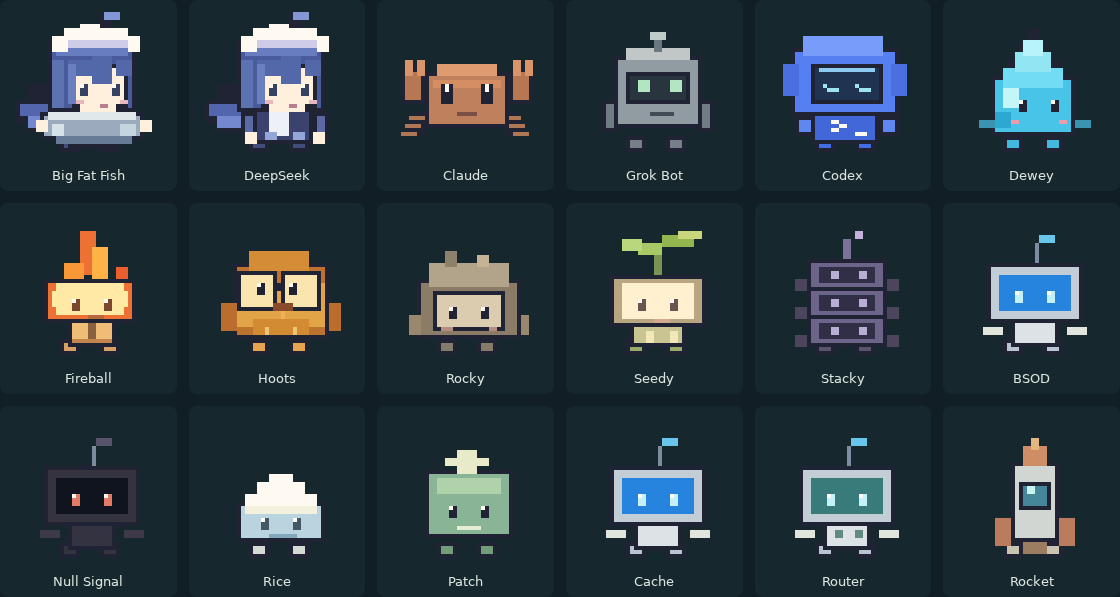
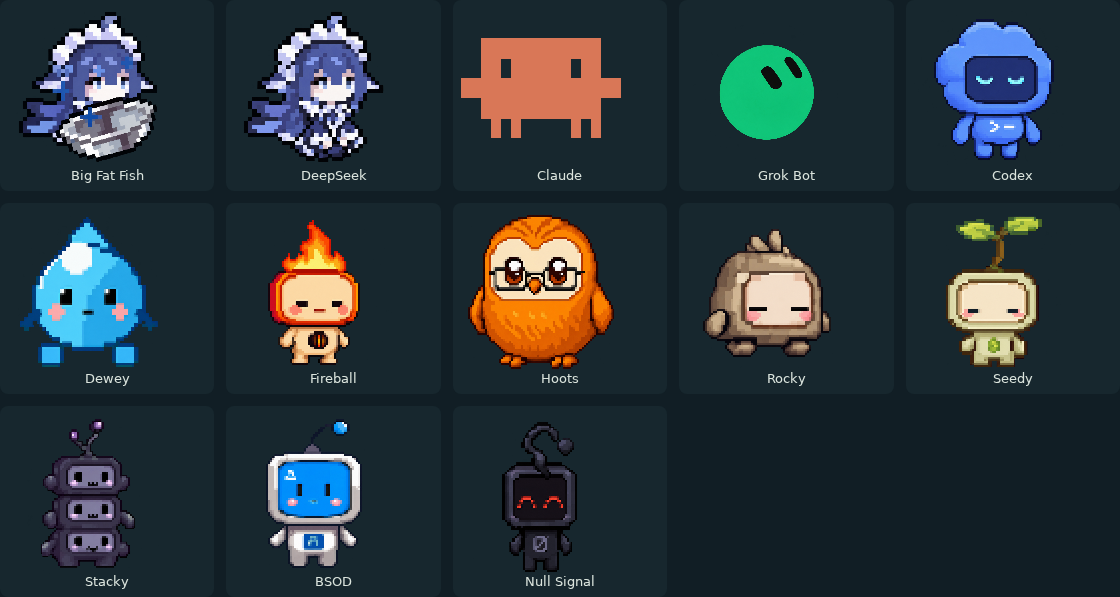
fix(v2): restore approved faithful character replicas without simplified redraws

diff --git a/src/v2/preview/characters.js b/src/v2/preview/characters.js
@@ -1,85 +1,49 @@
 // @ts-check
-// Hand-authored integer-grid rigs. Reference screenshots are never loaded.
-/** @typedef {{x:number;y:number;w:number;h:number;color:string}} PixelRect */
+// Use the previously reviewed generated art unchanged. No substitute redraws.
 /** @typedef {{tick?:number;moving?:boolean;attacking?:boolean;controlled?:boolean;hurt?:boolean;facing?:number;stage?:number}} Pose */
-export const CHARACTER_NAMES=Object.freeze(['fish','deepseek','claude','grok','codex','dewey','fireball','hoots','rocky','seedy','stacky','bsod','null-signal','rice','patch','cache','router','rocket']);
-const ink='#202333',cream='#fff0de',white='#fffaf1';
-/** Build detached pixel geometry on a 40 × 40 grid. Pose is presentation only.
+export const CHARACTER_NAMES=Object.freeze(['fish','deepseek','claude','grok','codex','dewey','fireball','hoots','rocky','seedy','stacky','bsod','null-signal']);
+/** @type {Map<string,{image:HTMLImageElement;ready:boolean;promise:Promise<HTMLImageElement>}>} */
+const images=new Map();
+/** Resolve a reviewed source image without changing its pixels.
  * @calls 无内部公开函数。
- * @param {string} name @param {Pose} [pose] @returns {PixelRect[]}
+ * @param {string} name @returns {string|null}
  */
-export function createCharacterPixels(name,pose={}){
- if(!CHARACTER_NAMES.includes(name))name='cache';
- /** @type {PixelRect[]} */const out=[];
- const tick=pose.tick??0,step=pose.moving&&!pose.controlled?Math.floor(tick/7)%4:0,stride=step===1?1:step===3?-1:0;
- const bob=pose.controlled?0:pose.moving?Math.abs(stride):Math.floor(tick/40)%2,blink=pose.controlled||tick%210>201,attack=pose.attacking&&!pose.controlled&&tick%12<8?2:0;
- /** @param {number} x @param {number} y @param {number} w @param {number} h @param {string} color */
- const r=(x,y,w,h,color)=>out.push({x,y:y-bob,w,h,color:pose.hurt&&color!==ink?white:color});
- /** @param {number} x @param {number} y @param {number} w @param {number} h @param {string} color */
- const box=(x,y,w,h,color)=>{r(x,y,w,h,ink);r(x+1,y+1,w-2,h-2,color);};
- /** @param {number} x @param {number} y @param {string} [color] */
- const eyes=(x,y,color=ink)=>{r(x,y,2,blink?1:3,color);r(x+8,y,2,blink?1:3,color);if(!blink){r(x,y,1,1,white);r(x+8,y,1,1,white);}};
- /** @param {string} color */
- const feet=color=>{box(13,32+stride,5,4,color);box(23,32-stride,5,4,color);};
- if(name==='fish'||name==='deepseek'){
-  feet('#424d7d');box(12,24,17,10,'#3a426d');r(18,25,5,7,'#eef0f7');r(5,19,7,12,ink);r(2,23,9,6,ink);r(3,24,9,3,'#5365ac');r(5,27,8,3,'#7488cf');
-  box(10,8,22,18,'#495b9c');r(12,8,18,4,'#677dc0');r(11,13,3,12,'#5c72b1');box(16,14,14,11,cream);r(18,24,9,2,cream);r(15,13,7,4,'#5368a9');r(21,12,5,7,'#5368a9');r(27,13,4,4,'#5368a9');r(15,14,2,10,'#697fc0');eyes(18,19,'#354363');r(17,23,2,1,'#e8b6bd');r(28,23,2,1,'#e8b6bd');r(23,24,2,1,'#b97f91');
-  r(11,7,4,4,white);r(14,5,4,5,white);r(18,4,4,5,white);r(22,4,4,5,white);r(26,5,4,5,white);r(30,7,3,4,white);r(15,8,15,2,'#cecce9');r(23,1,3,4,ink);r(24,1,4,2,'#8297d6');
-  if(name==='fish'){
-   box(8+attack,26-attack,26,7,'#9babbd');r(10+attack,26-attack,22,2,'#e1e8eb');r(12+attack,32-attack,19,2,'#687b96');r(15+attack,34-attack,13,1,ink);r(11+attack,29-attack,3,3,'#d5e2e8');r(28+attack,29-attack,4,3,'#c5d4df');r(7+attack,28-attack,3,3,cream);r(33+attack,28-attack,3,3,cream);
-  }else{
-   // DeepSeek intentionally has no basin, plus signs or replacement prop.
-   box(11,26-stride,4,7,'#5b6aa4');r(12,31-stride,3,3,cream);box(29,26+stride-attack,4,7,'#5b6aa4');r(29,31+stride-attack,3,3,cream);r(17,31,3,2,'#94a6d8');r(24,31,3,2,'#94a6d8');
-  }
- }else if(name==='claude'){
-  for(const side of [-1,1]){const cx=side<0?4:31;for(let i=0;i<3;i++){r(side<0?7-i:28+i,26+i*2+stride*side,5,2,ink);r(side<0?6-i:30+i,27+i*2+stride*side,4,1,'#ae7756');}box(cx,15-attack,6,9,'#b87753');r(cx+1,13-attack,2,4,'#d99569');r(cx+4,13-attack,2,4,'#d99569');}
-  box(10,16,21,14,'#bf805d');r(13,14,15,3,'#df9b70');r(12,18,17,2,'#d58d64');r(14,19,3,5,ink);r(24,19,3,5,ink);r(15,19,1,2,white);r(25,19,1,2,white);r(18,26,5,1,'#7c4f43');
-  if((pose.stage??0)>0){r(12,15,17,3,'#946249');r(15,14,11,2,'#edb78b');r(11,19,2,7,'#875d4a');r(29,19,2,7,'#875d4a');}
- }else if(name==='grok'){
-  feet('#777f88');box(10,12,22,18,'#919ba2');r(13,10,16,3,'#c0c7c6');box(13,16,16,8,'#28343e');r(16,18,3,3,'#b3e5c2');r(24,18,3,3,'#b3e5c2');r(19,26,6,1,'#414c57');r(20,7,2,4,'#6b7881');r(19,6,4,2,'#becbc8');box(7,23-stride,4,8,'#717d85');box(31,23+stride-attack,4,8,'#717d85');
-  if(pose.stage===4){box(32,8,5,22,'#b2b6bc');r(33,6,3,3,'#d79469');r(33,31,3,4,'#e7b66c');}
- }else if(name==='codex'){
-  feet('#416ee4');box(12,25,17,9,'#4267d9');r(17,28,2,1,white);r(19,29,2,1,white);r(17,30,2,1,white);r(23,31,3,1,white);box(7,10,27,17,'#567ff1');r(10,7,20,5,'#789cf9');r(5,14,4,8,'#4b6fe0');r(32,14,4,8,'#4b6fe0');box(12,14,18,10,'#203351');r(14,15,14,1,'#8fcaf2');r(16,20,3,1,'#9ee4f0');r(24,20,3,1,'#9ee4f0');r(15,19,1,1,'#9ee4f0');r(23,19,1,1,'#9ee4f0');box(8,27-stride,5,5,'#6086ef');box(29,27+stride-attack,5,5,'#6086ef');
- }else if(name==='dewey'){
-  feet('#42b9df');r(19,5,3,4,ink);r(17,9,7,4,ink);r(14,13,13,4,ink);box(10,17,21,15,'#49c4e9');r(13,15,15,5,'#71dcf4');r(16,11,9,5,'#92e5f3');r(18,8,5,4,'#b8f3f9');r(13,20,4,5,'#c4f6f7');r(11,26,4,4,'#2ca8d2');eyes(17,23);r(15,28,2,1,'#ed9cae');r(27,28,2,1,'#ed9cae');r(7,28-stride,4,2,'#3a93af');r(31,28+stride,4,2,'#3a93af');
- }else if(name==='fireball'){
-  feet('#d7a166');box(15,26,12,8,'#f0bd77');r(20,28,2,4,'#88623d');r(16,32,10,1,'#c2854d');r(18,5-attack,4,11,'#ed7132');r(21,9-attack,4,8,'#ffb347');r(14,13,5,6,'#fa9838');r(27,14,3,6,'#eb5e2e');box(9,17,23,11,'#ed7132');r(12,18,17,8,'#ffe9a5');r(11,20,19,4,'#ffe9a5');eyes(16,22,'#78472e');r(20,26,4,1,'#b9673c');
- }else if(name==='hoots'){
-  feet('#e6a54c');box(9,13,24,19,'#be722f');r(13,10,15,5,'#d58c36');r(10,18,22,11,'#e1a447');r(14,27,14,4,'#d38b33');box(10,15,10,10,'#fbe5ae');box(21,15,10,10,'#fbe5ae');r(20,18,1,2,ink);eyes(15,18);r(19,23,5,2,'#8a4b2d');r(21,25,1,2,'#f0b058');r(6,23-stride,4,7,'#ba6d2d');r(33,23+stride-attack,3,7,'#ba6d2d');r(17,29,1,2,'#f0c477');r(24,29,1,2,'#f0c477');
- }else if(name==='rocky'){
-  feet('#857969');box(8,17,26,15,'#8a7c66');r(11,13,20,6,'#b2a48a');r(15,10,3,4,'#8c826c');r(23,11,3,3,'#c6b394');box(12,20,18,10,'#dbccb0');eyes(16,24);r(14,29,3,1,'#b78d81');r(26,29,2,1,'#b78d81');r(6,26-stride,3,5,'#9a886e');r(34,26+stride-attack,2,5,'#9a886e');
- }else if(name==='seedy'){
-  feet('#9caa67');box(14,27,14,7,'#c9c593');box(9,16,24,13,'#b7a67f');r(12,18,18,9,'#fff0cf');eyes(16,22,'#68554d');r(20,27,4,1,'#d4aa94');r(20,9,2,7,'#7b9456');r(16,8-stride,6,3,'#a9c967');r(12,7-stride,5,3,'#b9d77b');r(22,6+stride,8,3,'#94b64e');r(26,5+stride,6,2,'#c9d67c');r(18,30,2,3,'#f2e7b8');r(24,30,2,3,'#f2e7b8');
- }else if(name==='stacky'){
-  feet('#5a536e');for(let i=0;i<3;i++){const shift=i===0?stride:0;box(11+shift,12+i*7,20,8,'#6d648a');r(14+shift,14+i*7,14,4,'#302f45');r(17+shift,15+i*7,2,2,'#b9aed6');r(24+shift,15+i*7,2,2,'#b9aed6');r(8,17+i*7,3,3,'#4c455e');r(31,17+i*7,3,3,'#4c455e');}r(20,7,2,5,'#7c719b');r(23,5,2,2,'#c6b1dc');
- }else if(['bsod','null-signal','cache','router'].includes(name)){
-  const dark=name==='null-signal',green=name==='router';feet(dark?'#35333e':'#b8c4d1');box(15,27,12,7,dark?'#343342':'#dce2e6');box(9,13,24,15,dark?'#35333e':'#c2cdd5');r(12,16,18,9,dark?'#10141e':green?'#397b7b':'#2784de');eyes(16,20,dark?'#e47b67':'#c3f0f9');r(21,8,1,5,'#7f8b9f');r(22,6,4,2,dark?'#57536c':'#67c6e9');r(8,29-stride,5,2,dark?'#3e3a49':'#e1e5dc');r(29,29+stride-attack,5,2,dark?'#3e3a49':'#e1e5dc');if(green){r(18,29,2,2,'#608a82');r(23,29,2,2,'#608a82');}
- }else if(name==='rice'){
-  feet('#d5dbd3');box(10,22,22,10,'#bad4df');r(12,20,18,4,white);r(15,17,12,4,white);r(18,15,6,3,white);r(12,23,18,2,'#f3f0dd');eyes(16,26,'#445767');r(18,30,7,1,'#82a8bb');
- }else if(name==='patch'){
-  feet('#719b79');box(10,14,22,17,'#8ab496');r(13,16,16,4,'#b0d2ab');eyes(16,23);r(18,28,6,1,'#e4eed1');r(18,9,5,6,'#e9eac9');r(15,11,11,2,'#e9eac9');
- }else if(name==='rocket'){
-  feet('#c9c3b2');box(15,12,12,20,'#d1d6d3');r(18,8,6,5,'#cf8d65');r(20,6,2,3,'#e2b77e');box(17,17,8,7,'#46869a');r(19,18,2,2,'#c7f4ee');r(11,26-stride,4,7,'#ba7c5c');r(27,26+stride,4,7,'#ba7c5c');r(18,32,6,3,attack?'#f5c15c':'#9d7d61');
- }
- if(['codex','dewey','fireball','hoots','rocky','seedy','stacky'].includes(name))for(let n=0;n<Math.min(4,pose.stage??0);n++)r(9+n*3,34,2,1,'#ead3a1');
- return out;
+export function characterSource(name){
+ return CHARACTER_NAMES.includes(name)?`./art/characters/${name}.${name==='claude'?'svg':'png'}`:null;
 }
-/** Draw an integer-scaled rig, mirrored toward its actual facing.
- * @calls preview/characters.js#createCharacterPixels
+/** Load each approved full-resolution image once. No re-encoding or traced shapes.
+ * @calls preview/characters.js#characterSource
+ * @param {string} name @returns {Promise<HTMLImageElement>}
+ */
+export function loadCharacterArt(name){
+ const existing=images.get(name);if(existing)return existing.promise;
+ const source=characterSource(name);if(!source)return Promise.reject(new Error(`No approved character art: ${name}`));
+ const image=new Image();let resolveImage=/** @type {(image:HTMLImageElement)=>void} */(()=>{}),rejectImage=/** @type {(error:Error)=>void} */(()=>{});
+ const promise=new Promise((resolve,reject)=>{resolveImage=resolve;rejectImage=reject;});
+ const entry={image,ready:false,promise};images.set(name,entry);
+ image.onload=()=>{entry.ready=true;resolveImage(image);};image.onerror=()=>rejectImage(new Error(`Character art unavailable: ${name}`));image.src=source;return promise;
+}
+/** Draw the reviewed artwork with its aspect ratio and details intact. Movement
+ * and recoil are whole-image offsets, not newly invented animation frames.
+ * No mirroring: that would reverse the Codex chest glyph and asymmetric details.
+ * @calls preview/characters.js#characterSource
+ * @calls preview/characters.js#loadCharacterArt
  * @param {CanvasRenderingContext2D} ctx @param {string} name @param {number} x @param {number} y @param {number} size @param {Pose} [pose]
+ * @returns {boolean}
  */
 export function drawCharacter(ctx,name,x,y,size,pose={}){
- const scale=Math.max(1,Math.round(size/40));ctx.save();ctx.translate(Math.round(x),Math.round(y));if(Math.cos(pose.facing??0)<-.15)ctx.scale(-1,1);
- for(const p of createCharacterPixels(name,pose)){ctx.fillStyle=p.color;ctx.fillRect((p.x-20)*scale,(p.y-20)*scale,p.w*scale,p.h*scale);}ctx.restore();
+ if(!characterSource(name))return false;
+ const entry=images.get(name);if(!entry){loadCharacterArt(name).catch(()=>{});return false;}if(!entry.ready)return false;
+ const image=entry.image;
+ // Approved Claude SVG has a 512-square artboard; only its crab occupies this box.
+ const crop=name==='claude'?{x:16,y:176,w:384,h:240}:{x:0,y:0,w:image.naturalWidth,h:image.naturalHeight};
+ const scale=size/Math.max(crop.w,crop.h),w=crop.w*scale,h=crop.h*scale,tick=pose.tick??0;
+ const bob=pose.controlled?0:pose.moving?Math.floor(tick/7)%2*2:0;
+ const recoil=pose.attacking&&!pose.controlled&&tick%12<4?2:0;
+ ctx.save();ctx.imageSmoothingEnabled=false;if(pose.hurt)ctx.globalAlpha*=.55;
+ ctx.drawImage(image,crop.x,crop.y,crop.w,crop.h,Math.round(x-w/2-Math.cos(pose.facing??0)*recoil),Math.round(y-h/2-bob),w,h);ctx.restore();return true;
 }
-/** Static export from exactly the same rig as combat.
- * @calls preview/characters.js#createCharacterPixels
- * @param {string} name @param {Pose} [pose] @returns {string}
- */
-export function characterSvg(name,pose={}){
- return `<svg xmlns="http://www.w3.org/2000/svg" viewBox="0 0 40 40" width="160" height="160" shape-rendering="crispEdges">${createCharacterPixels(name,pose).map(p=>`<rect x="${p.x}" y="${p.y}" width="${p.w}" height="${p.h}" fill="${p.color}"/>`).join('')}</svg>`;
-}
-/** Resolve combat actor IDs; DeepSeek is the existing decoy companion's skin.
+/** Bind existing gameplay roles to reviewed appearances; abilities do not change.
  * @calls 无内部公开函数。
  * @param {string} id @returns {string|null}
  */
@@ -89,5 +53,5 @@ export function resolveCharacterModel(id){
  if(['enemy_claude_guard','boss_claude'].includes(id))return 'claude';
  if(['enemy_grok_bot','boss_grok','distilled_bot'].includes(id))return 'grok';
  if(id==='boss_gpt')return 'codex';
- const companions=/** @type {Record<string,string>} */({companion_rice:'rice',companion_patch:'patch',companion_cache:'cache',companion_router:'router',companion_decoy:'deepseek',companion_rocket:'rocket'});return companions[id]??null;
+ return id==='companion_decoy'?'deepseek':null;
 }

diff --git a/src/v2-character-gallery.js b/src/v2-character-gallery.js
@@ -1,13 +1,13 @@
-import {CHARACTER_NAMES,drawCharacter} from './v2/preview/characters.js';
+import {CHARACTER_NAMES,drawCharacter,loadCharacterArt} from './v2/preview/characters.js';
 /** Inspect the same rigs as combat, without advancing the world. */
 export function mountCharacterGallery(){
  const root=document.querySelector('#character-gallery'),panel=document.querySelector('#characters-panel');if(!root||!panel)return;
  const labels={fish:'大肥鱼',deepseek:'DeepSeek',claude:'Claude',grok:'Grok Bot',codex:'Codex',dewey:'Dewey',fireball:'Fireball',hoots:'Hoots',rocky:'Rocky',seedy:'Seedy',stacky:'Stacky',bsod:'BSOD','null-signal':'Null Signal',rice:'饭团',patch:'补丁',cache:'小缓存',router:'路由员',rocket:'小火箭'};
- const controls=document.createElement('div');controls.className='model-controls';const label=document.createElement('label');label.textContent='查看动作 ';const select=document.createElement('select');select.id='model-pose';
- for(const [value,text] of [['idle','待机'],['move','移动'],['attack','攻击'],['control','受控'],['hurt','受击']]){const option=document.createElement('option');option.value=value;option.textContent=text;select.append(option);}label.append(select);controls.append(label);
- const turn=document.createElement('button');turn.type='button';turn.textContent='转向';turn.setAttribute('aria-pressed','false');let facing=0;turn.onclick=()=>{facing=facing?0:Math.PI;turn.setAttribute('aria-pressed',String(!!facing));};controls.append(turn);root.append(controls);
+ const controls=document.createElement('div');controls.className='model-controls';const label=document.createElement('label');label.textContent='展示效果 ';const select=document.createElement('select');select.id='model-pose';
+ for(const [value,text] of [['idle','原图'],['move','移动反馈'],['attack','攻击反馈'],['control','受控'],['hurt','受击']]){const option=document.createElement('option');option.value=value;option.textContent=text;select.append(option);}label.append(select);controls.append(label);
+ const facing=0;root.append(controls);
  const grid=document.createElement('div');grid.className='model-gallery';root.append(grid);const views=[];
- for(const name of CHARACTER_NAMES){const figure=document.createElement('figure'),canvas=document.createElement('canvas'),caption=document.createElement('figcaption');canvas.width=canvas.height=160;canvas.setAttribute('aria-label',`${labels[name]}像素模型`);canvas.dataset.model=name;caption.textContent=labels[name];figure.append(canvas,caption);grid.append(figure);views.push({name,canvas});}
+ for(const name of CHARACTER_NAMES){const figure=document.createElement('figure'),canvas=document.createElement('canvas'),caption=document.createElement('figcaption');canvas.width=canvas.height=160;canvas.setAttribute('aria-label',`${labels[name]}像素模型`);canvas.dataset.model=name;caption.textContent=labels[name];figure.append(canvas,caption);grid.append(figure);views.push({name,canvas});loadCharacterArt(name).catch(()=>{caption.textContent=`${labels[name]} · 加载失败`;});}
  let request=0,start=0;
  function frame(now){if(!panel.open||document.hidden){request=0;return;}if(!start)start=now;const tick=Math.floor((now-start)*.06);for(const {canvas,name} of views){const ctx=canvas.getContext('2d');ctx.clearRect(0,0,160,160);ctx.imageSmoothingEnabled=false;drawCharacter(ctx,name,80,80,160,{tick,moving:select.value==='move',attacking:select.value==='attack'&&tick%30<15,controlled:select.value==='control',hurt:select.value==='hurt'&&tick%30<5,facing});}request=requestAnimationFrame(frame);}
  const resume=()=>{if(panel.open&&!document.hidden&&!request)request=requestAnimationFrame(frame);};panel.addEventListener('toggle',resume);document.addEventListener('visibilitychange',resume);resume();

diff --git a/src/v2/preview/view.js b/src/v2/preview/view.js
@@ -65,7 +65,7 @@ export function renderPreviewFrame(ctx,view,width,height,pixelRatio,popups=[]) {
     const stage=/mythos|fable|luna/i.test(entity.modelLabel??'')?3:/opus|terra/i.test(entity.modelLabel??'')?2:/sonnet|sol/i.test(entity.modelLabel??'')?1:0;
     const pose={tick:view.tick,moving:entity.moving,attacking:entity.attacking||entity.telegraphRemaining>0,facing:entity.facingRadians,stage,hurt:popups.some(p=>Math.hypot(p.x-x,p.y-y)<entity.radius&&view.tick-p.tick>=0&&view.tick-p.tick<5),controlled:entity.statusLabels?.some(s=>['root','stun','companionBan'].includes(s))};
     if(entity.kind==='companion'){
-      const banned=entity.statusLabels.includes('companionBan');ctx.globalAlpha=banned?.35:1;drawCharacter(ctx,model??'cache',x,y,40,pose);ctx.globalAlpha=1;
+      const banned=entity.statusLabels.includes('companionBan');ctx.globalAlpha=banned?.35:1;if(!drawCharacter(ctx,model??'',x,y,40,pose)){ctx.fillStyle=entity.spriteId==='companion_rice'?'#eee8cf':entity.spriteId==='companion_patch'?'#a1d6a0':entity.spriteId==='companion_rocket'?'#e4a278':'#a8bde0';ctx.fillRect(x-10,y-9,20,18);ctx.fillStyle='#31505b';ctx.fillRect(x-6,y-4,3,4);ctx.fillRect(x+3,y-4,3,4);}ctx.globalAlpha=1;
       ctx.font='11px system-ui';ctx.textAlign='center';ctx.fillStyle='#d5e1d0';ctx.fillText(`${entity.modelLabel??'伙伴'}${model==='deepseek'?' · DeepSeek':''}`,x,y+27);if(banned){ctx.strokeStyle='#d8947d';ctx.strokeRect(x-17,y-17,34,34);}continue;
     }
     if(entity.spriteId.startsWith('enemy_gpt_')){

diff --git a/v2.html b/v2.html
@@ -11,7 +11,7 @@
       <div class="menu-layout">
         <div id="home-screen" class="home-screen">
           <div class="home-copy"><span class="home-kicker">BIG FAT FISH</span><h1>大肥鱼</h1><p>拎上铁盆，出门冒险。</p><button id="open-departure" class="primary home-start" type="button">开始冒险 <span aria-hidden="true">→</span></button></div>
-          <div class="home-art" aria-hidden="true"><img src="./art/models/fish.svg" alt=""></div>
+          <div class="home-art" aria-hidden="true"><img src="./art/characters/fish.png" alt=""></div>
         </div>
         <div id="departure-screen" class="departure-screen hidden">
           <div class="departure-heading"><span class="eyebrow">出发准备</span><h1>选择冒险</h1><p>选一条路线，再决定难度。</p></div>

diff --git a/docs/design-v2/12-function-catalog.md b/docs/design-v2/12-function-catalog.md
@@ -3189,23 +3189,23 @@ A bounded, explicit combat-only slice. Full adventure tick remains separate and 
 
 | 函数签名 | 返回 | 状态/范围 | 功能与约束 |
 |---|---|---|---|
-| `createCharacterPixels(name: untyped, pose: untyped = {})` | `PixelRect[]` | 已实现 | createCharacterPixels；；状态权限：只读输入、返回值/计划；不得写调用者状态 |
-| `drawCharacter(ctx: untyped, name: untyped, x: untyped, y: untyped, size: untyped, pose: untyped = {})` | `void` | 已实现 | drawCharacter；；状态权限：只读输入、返回值/计划；不得写调用者状态 |
-| `characterSvg(name: untyped, pose: untyped = {})` | `string` | 已实现 | characterSvg；；状态权限：只读输入、返回值/计划；不得写调用者状态 |
+| `characterSource(name: untyped)` | `string\|null` | 已实现 | characterSource；；状态权限：只读输入、返回值/计划；不得写调用者状态 |
+| `loadCharacterArt(name: untyped)` | `Promise<HTMLImageElement>` | 已实现 | loadCharacterArt；；状态权限：只读输入、返回值/计划；不得写调用者状态 |
+| `drawCharacter(ctx: untyped, name: untyped, x: untyped, y: untyped, size: untyped, pose: untyped = {})` | `boolean` | 已实现 | drawCharacter；；状态权限：只读输入、返回值/计划；不得写调用者状态 |
 | `resolveCharacterModel(id: untyped)` | `string\|null` | 已实现 | resolveCharacterModel；；状态权限：只读输入、返回值/计划；不得写调用者状态 |
 
 公开函数下游：
 
-- `createCharacterPixels` → 无内部公开函数。
-- `drawCharacter` → `preview/characters.js#createCharacterPixels`。
-- `characterSvg` → `preview/characters.js#createCharacterPixels`。
+- `characterSource` → 无内部公开函数。
+- `loadCharacterArt` → `preview/characters.js#characterSource`。
+- `drawCharacter` → `preview/characters.js#characterSource`、`preview/characters.js#loadCharacterArt`。
 - `resolveCharacterModel` → 无内部公开函数。
 
 公开函数上游：
 
-- `createCharacterPixels` ← `preview/characters.js#drawCharacter`、`preview/characters.js#characterSvg`。
+- `characterSource` ← `preview/characters.js#loadCharacterArt`、`preview/characters.js#drawCharacter`。
+- `loadCharacterArt` ← `preview/characters.js#drawCharacter`。
 - `drawCharacter` ← `preview/view.js#renderPreviewFrame`。
-- `characterSvg` ← 宿主/工具入口或待编排。
 - `resolveCharacterModel` ← `preview/view.js#renderPreviewFrame`。
 
 ## preview/host.js

diff --git a/docs/design-v2/15-art-review.md b/docs/design-v2/15-art-review.md
@@ -1,6 +1,6 @@
-# 当前游戏模型
+# 当前角色复刻版本
 
-运行时已替换以下旧试稿贴图，改用src/v2/preview/characters.js的18种手工整数网格模型。查看[模型总览](art-drafts/models-v2-overview.png)，或打开首页“角色图鉴”切换动作和朝向。DeepSeek不带盆和加号，接入替身进程伙伴外观，技能不变；Claude不带绿框。BSOD与Null Signal仅提供展示，尚无敌人行为。新模型不声称与原参考逐像素一致。
+已撤下重新绘制的40×40简化造型，恢复下列此前生成并经用户确认的版本。public/art/characters内的文件与历史生成文件逐字节一致；approved-art.json记录来源和校验值。查看[恢复后的角色总览](art-drafts/models-v2-overview.png)或首页角色图鉴。DeepSeek保留去盆去加号结果，Claude保留无绿框结果，九种GPT Pets不重新设计。游戏绘制保持原图比例和细节；当前移动和攻击仅为整图位移反馈，完整逐帧动作仍待制作。
 
 # 素材还原 · 试稿核对
 
@@ -11,7 +11,7 @@
 - [DeepSeek 无盆版](art-drafts/deepseek-no-basin-draft.png)：按用户要求去除蓝色加号和铁盆；被铁盆遮挡的身体由生成式编辑补画。该图作为独立试稿保留，原先拿盆的大肥鱼试稿未覆盖。
 - GPT Pets 九张透明试稿：[Codex](art-drafts/codex-close-draft.png)、[Dewey](art-drafts/dewey-draft.png)、[Fireball](art-drafts/fireball-draft.png)、[Hoots](art-drafts/hoots-draft.png)、[Rocky](art-drafts/rocky-draft.png)、[Seedy](art-drafts/seedy-draft.png)、[Stacky](art-drafts/stacky-draft.png)、[BSOD](art-drafts/bsod-draft.png)、[Null Signal](art-drafts/null-signal-draft.png)。旧版本七种游戏内GPT敌人曾使用对应试稿；BSOD和Null Signal暂未成为游戏内敌人。
 
-除了 Claude 的手工像素稿，其余图使用内置图像编辑工具生成，造型、像素边缘和细节可能与参考图不同。它们仅供对照，不应标称逐像素复刻。原参考图除[绿色圆形图案](../../public/art/references/green-icon.png)外，环境中断后尚未保存到仓库。
+当前直接沿用这些已经确认的生成结果，不再重绘、简化或覆盖原文件。
 
 ## 透明试稿提示词
 

diff --git a/public/art/characters/README.md b/public/art/characters/README.md
@@ -1,0 +1,11 @@
+# 已确认的角色复刻版本
+
+本目录直接使用之前生成并经用户确认的透明图，原文件按字节恢复，不做重新设计、描摹、减色或低分辨率替换。`approved-art.json`记录每个文件的历史路径、字节数和Git blob校验值；测试逐个验证与历史版本一致。
+
+- 大肥鱼：拿铁盆版本。
+- DeepSeek：之前确认的去盆、去加号版本。
+- Claude：之前确认的不带绿色方框的棕色螃蟹SVG；显示时只取蟹体区域，形状保持原样。
+- Codex、Dewey、Fireball、Hoots、Rocky、Seedy、Stacky、BSOD、Null Signal：之前生成的九种GPT Pets透明图。
+- 绿色圆形图案：之前生成的原造型，用于Bot表现。
+
+首页、图鉴和战斗共用本目录原图；绘制保持长宽比例和nearest-neighbor，不镜像胸前字符或不对称细节。移动/攻击反馈仅是整张图的位置变化，受击仅改变透明度，不声称已有完整逐帧动作。BSOD和Null Signal仍仅展示，未增加敌人行为。其他尚无确认原图的辅助单位维持原有占位，不再把新画的简化角色当作已确认模型。

diff --git a/docs/design-v2/09-art-and-flavour.md b/docs/design-v2/09-art-and-flavour.md
@@ -1,6 +1,6 @@
 # 09 · 像素大肥鱼、参考图与社区梗命名
 
-本章记录美术与声音规格；当前手工像素模型和音频接入见13与15。两张用户参考原图位于本次设计讨论附件，仓库只记录文字造型要求，不包含原图；实现者需从用户获取原始参考，不直接把含背景截图当作游戏精灵。
+本章记录美术与声音规格。当前角色沿用此前生成并经用户确认的复刻版本，文件见public/art/characters；不得擅自重绘成简化角色。原图来源、文件校验及音频接入见13与15。
 
 ## 1. 主角：拿铁盆的像素大肥鱼
 
